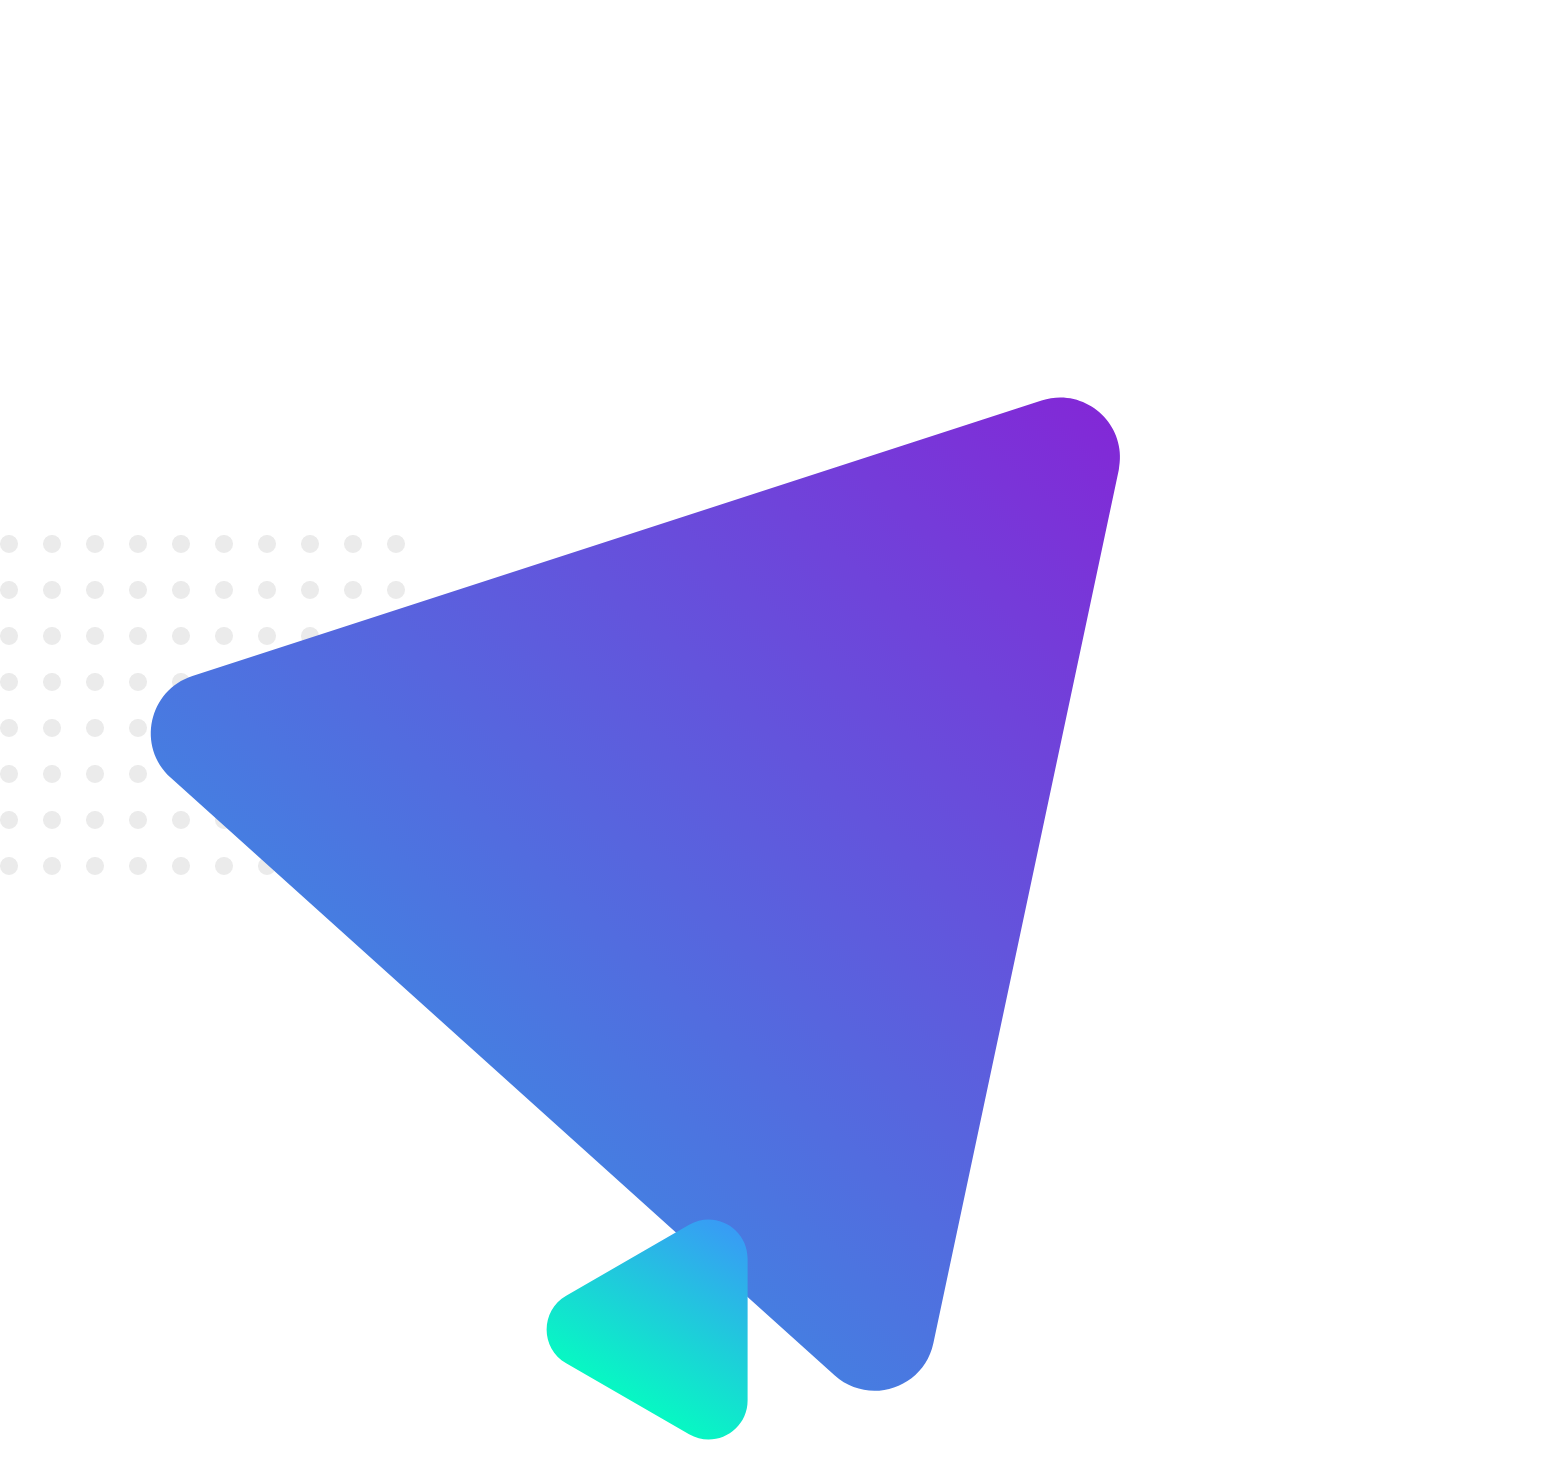
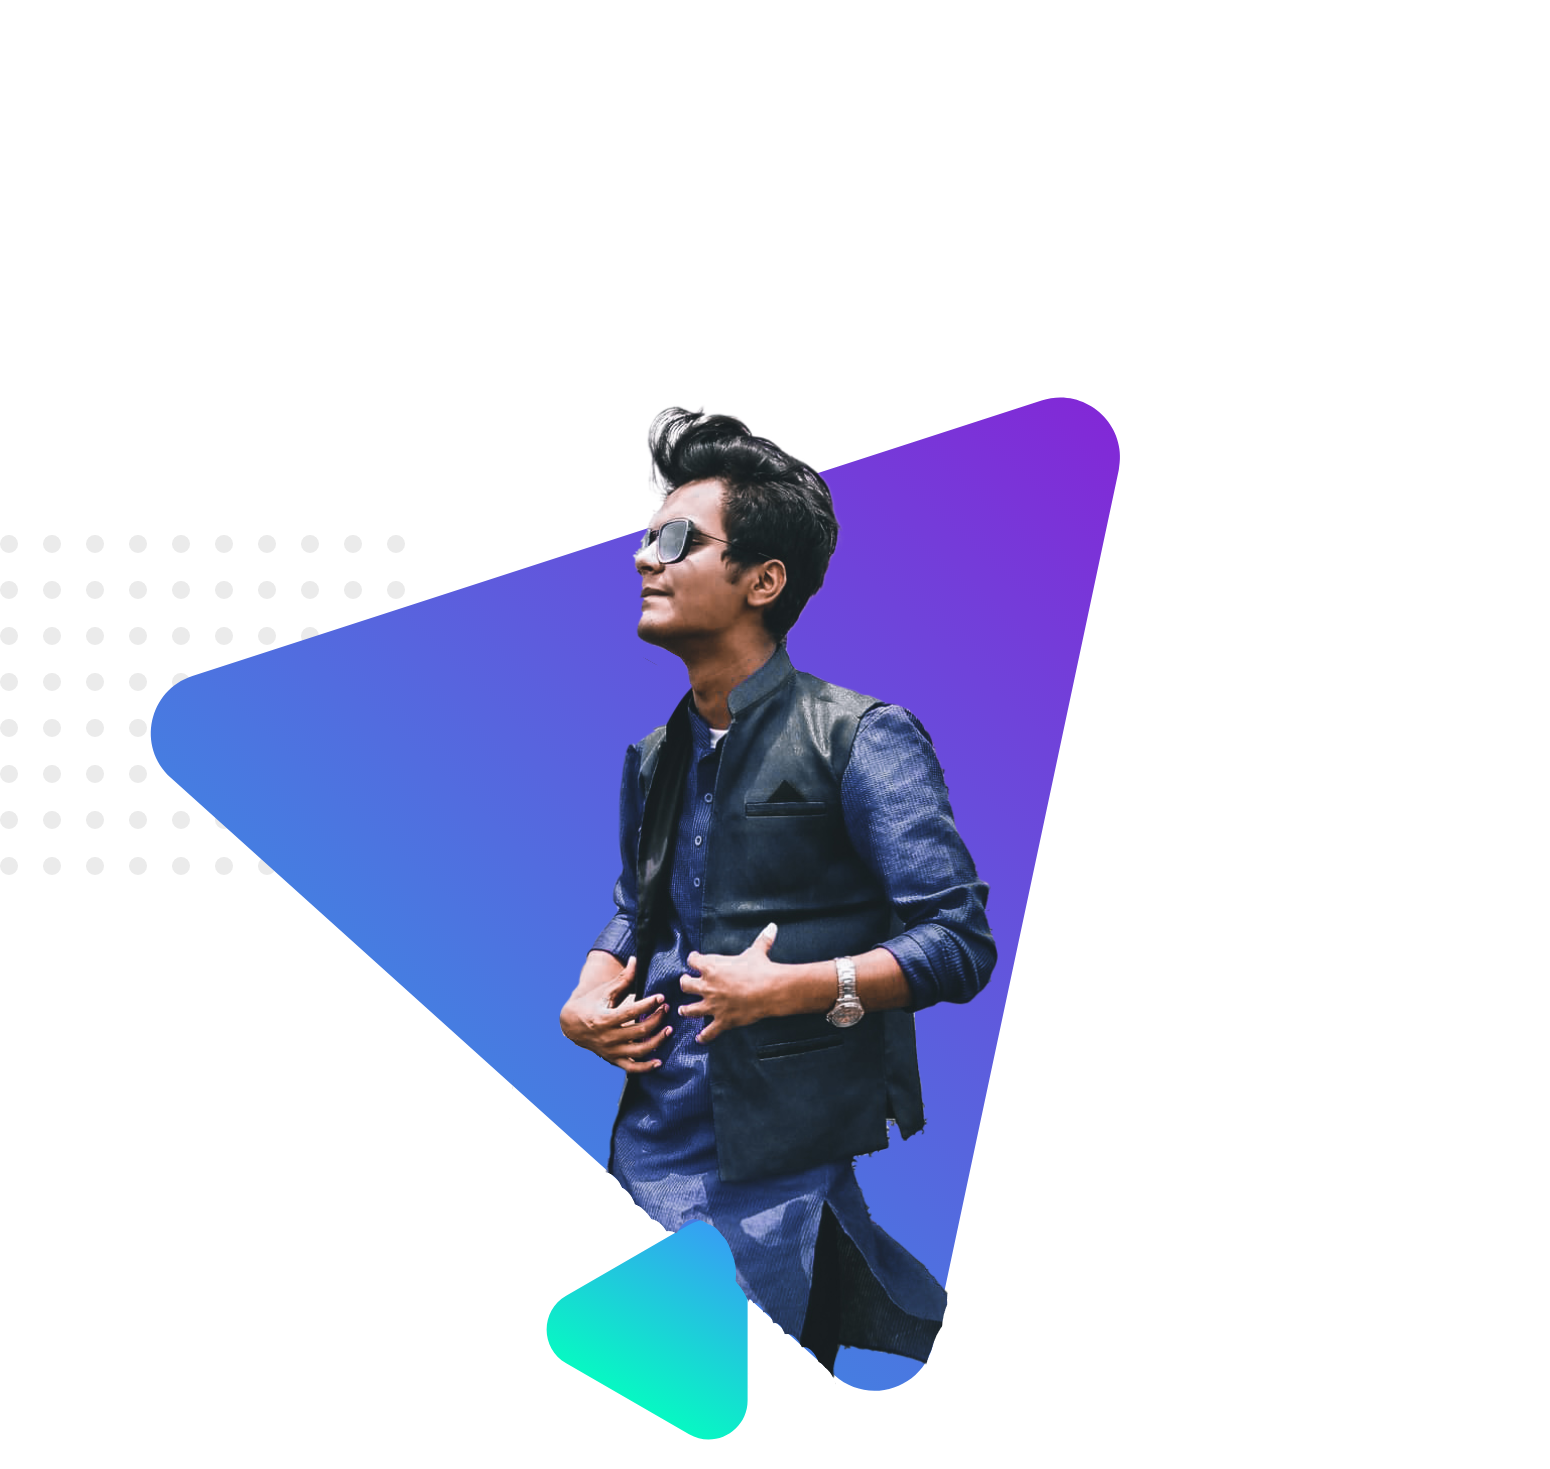
new

Changed region(s): [[0.3406, 0.2757, 0.6503, 0.9496]]

diff --git a/index.html b/index.html
@@ -10,13 +10,25 @@
     <link rel="stylesheet" href="styles.css">
 </head>
 <body>
-    <h1>dgdsyg yudfh</h1>
-    <img src="images/Untitled design.png" >
-    <section>
-            <div>
-                
+    <section id="sec-one">
+        <div class="brack">
+            <img id="logo" src="images/Untitled design.png" >
+        </div>
+        <div class="brack">
+            <h1>AHTESAM <br> <span id="tech">TECH</span> BOX</h1>
+        </div>
+    </section>
+    <section >
+            <div class="brackt">
+                <img src="images/image 17.png" >
+            </div>
+            <div class="brackt about">
+                <h2>About me.</h2>
+                <p>I am a student of App development. I'm learning from Learn Android With Jubayer(Institute). My student ID is #29498. i currently have some Apps in the Google Play Store. My patience and willpower are further improving my work. I belive that through skill development I will be able to fulfill my dream.</p>
             </div>
 
+    </section>
+    <section>
 
     </section>
 

diff --git a/styles.css b/styles.css
@@ -1,0 +1,51 @@
+body{
+    margin: 0%;
+}
+
+section{
+    margin-bottom: 20px;
+}
+
+
+
+#logo{
+    padding-top: 10px;
+    padding-left: 10px;
+    height: 70px;
+    width: 80px;
+
+}
+#tech{
+    color: rgb(8, 133, 39);
+}
+#sec-one{
+  
+    width: 100%;
+    height: 88px;
+    background-color: rgb(198, 238, 240);
+}
+
+.brack{
+    width: 20%;
+padding-right: 10px;
+float: left;
+
+}
+
+.brackt{
+    width: 40%;
+    float: left;
+}
+.brackt img{
+    padding-right: 2%;
+    width: 100%;
+    margin-left: 50px;
+    margin-top: 0px;
+
+}
+.about{
+    margin-top: 200px;
+    box-shadow: 10px 10px 40px gray ;
+    border-radius: 10px;
+    padding: 10px 15px;
+}
